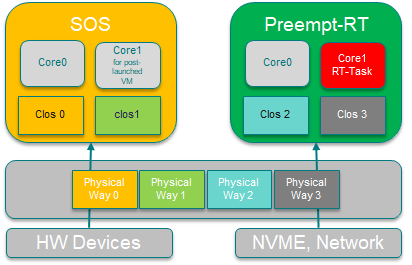
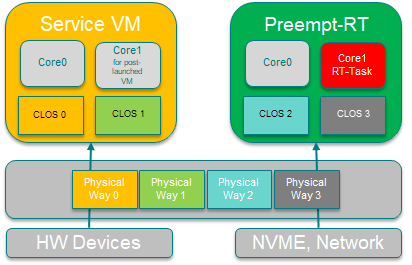
doc: terminology cleanup in RTVM tutorial
- Replace SOS or Service OS with Service VM
- Clean up some of the grammar

diff --git a/doc/tutorials/pre-launched-rt.rst b/doc/tutorials/pre-launched-rt.rst
@@ -1,13 +1,13 @@
 .. _pre_launched_rt:
 
-Pre-Launched Preempt-Rt Linux Mode in ACRN
+Pre-Launched Preempt-RT Linux Mode in ACRN
 ##########################################
 
 The Pre-Launched Preempt-RT Linux Mode of ACRN, abbreviated as
 Pre-Launched RT mode, is an ACRN configuration scenario. Pre-Launched RT
-mode allows you to boot ACRN with a preempt-rt Linux running in VM0, and
-the Service VM running in VM1. VM0 and VM1 are both pre-launched VMs,
-and their resources are partitioned from those on the physical platform.
+mode enables you to create a pre-launched real-time VM (RTVM) running
+Preempt-RT Linux (VM0) and a Service VM (VM1). Their resources are partitioned
+from those on the physical platform.
 
 .. figure:: images/pre_launched_rt.png
    :align: center
@@ -15,12 +15,12 @@ and their resources are partitioned from those on the physical platform.
 Prerequisites
 *************
 
-Because the Pre-Launched RT VM and Service VM are physically isolated
+Because the pre-launched RTVM and Service VM are physically isolated
 from each other, they must have their own devices to run a common OS,
 such as Linux. Also, the platform must support booting ACRN with
 multiple kernel images. So, your platform must have:
 
-- Two hard disk drives, one for the Pre-Launched RT and one for the Service
+- Two hard disk drives, one for the pre-launched RTVM and one for the Service
   VM
 - Two network devices
 - GRUB multiboot support
@@ -30,29 +30,29 @@ Example of Pre-Launched RT
 
 Take the Whiskey Lake WHL-IPC-I5 board (as described in :ref:`hardware`) for
 example. This platform can connect both an NVMe and a SATA drive and has
-two Ethernet ports. We will passthrough the SATA and Ethernet 03:00.0
-devices into the Pre-Launched RT VM, and give the rest of the devices to
+two Ethernet ports. We will pass through the SATA and Ethernet 03:00.0
+devices into the pre-launched RTVM, and give the rest of the devices to
 the Service VM.
 
-Install SOS With Grub on NVMe
-=============================
+Install Service VM OS With GRUB on NVMe
+=======================================
 
-As with the Hybrid and Logical Partition scenarios, the Pre-Launched RT
+As with the Hybrid and Partition scenarios, the Pre-Launched RT
 mode must boot using GRUB.  The ACRN hypervisor is loaded as a GRUB
-multiboot kernel, while the Pre-Launched RT kernel and Service VM
-kernels are loaded as multiboot modules. The ACRN hypervisor, Service
-VM, and Pre-Launched RT kernel images are all located on the NVMe drive.
+multiboot kernel, while the pre-launched RTVM kernel and Service VM
+kernel are loaded as multiboot modules. The ACRN hypervisor, Service
+VM, and pre-launched RTVM kernel images are all located on the NVMe drive.
 We recommend installing Ubuntu on the NVMe drive as the Service VM OS,
 which also has the required GRUB image to launch Pre-Launched RT mode.
-Refer to :ref:`gsg`, to
-install Ubuntu on the NVMe drive, and use grub to launch the Service VM.
+Refer to :ref:`gsg` to
+install Ubuntu on the NVMe drive, and use GRUB to launch the Service VM.
 
 Install Pre-Launched RT Filesystem on SATA and Kernel Image on NVMe
 ===================================================================
 
-Follow the :ref:`gsg` to install RT rootfs on SATA drive.
+Follow the :ref:`gsg` to install RT rootfs on the SATA drive.
 
-The Kernel should
+The kernel should
 be on the NVMe drive along with GRUB. You'll need to copy the RT kernel
 to the NVMe drive. Once you have successfully installed and booted
 Ubuntu from the NVMe drive, you'll then need to copy the RT kernel from
@@ -60,30 +60,30 @@ the SATA to the NVMe drive:
 
 .. code-block:: none
 
-   # mount /dev/nvme0n1p1 /boot
-   # mount /dev/sda1 /mnt
-   # cp /mnt/bzImage /boot/EFI/BOOT/bzImage_RT
+   sudo mount /dev/nvme0n1p1 /boot
+   sudo mount /dev/sda1 /mnt
+   sudo cp /mnt/bzImage /boot/EFI/BOOT/bzImage_RT
 
 Build ACRN With Pre-Launched RT Mode
 ====================================
 
 The ACRN VM configuration framework can easily configure resources for
-Pre-Launched VMs. On Whiskey Lake WHL-IPC-I5, to passthrough SATA and
-Ethernet 03:00.0 devices to the Pre-Launched RT VM, build ACRN with:
+pre-launched VMs. On Whiskey Lake WHL-IPC-I5, to pass through SATA and
+Ethernet 03:00.0 devices to the pre-launched RTVM, build ACRN with:
 
 .. code-block:: none
 
-   make BOARD_FILE=$PWD/misc/acrn-config/xmls/board-xmls/whl-ipc-i5.xml SCENARIO_FILE=$PWD/misc/acrn-config/xmls/config-xmls/whl-ipc-i5/hybrid_rt.xml RELEASE=0
+   make BOARD=whl-ipc-i5 SCENARIO=hybrid_rt
 
 After the build completes, update ACRN on NVMe. It is
-/boot/EFI/BOOT/acrn.bin, if /dev/nvme0n1p1 is mounted at /boot.
+``/boot/EFI/BOOT/acrn.bin``, if ``/dev/nvme0n1p1`` is mounted at ``/boot``.
 
 Add Pre-Launched RT Kernel Image to GRUB Config
 ===============================================
 
-The last step is to modify the GRUB configuration file to load the Pre-Launched
-kernel. (For more information about this, see
-the :ref:`gsg`.) The grub config file will look something
+The last step is to modify the GRUB configuration file to load the pre-launched
+RTVM kernel. (For more information about this, see
+the :ref:`gsg`.) The GRUB configuration file will look something
 like this:
 
 .. code-block:: none
@@ -96,7 +96,7 @@ like this:
        module2 /boot/ACPI_VM0.bin ACPI_VM0
    }
 
-Reboot the system, and it will boot into Pre-Launched RT Mode
+Reboot the system, and it will boot into Pre-Launched RT Mode:
 
 .. code-block:: none
 
@@ -104,10 +104,10 @@ Reboot the system, and it will boot into Pre-Launched RT Mode
    VM_UUID                          VM_ID       VM_NAME                    VM_STATE
    ================================ ===== ================================ ========
    26c5e0d88f8a47d88109f201ebd61a5e   0   ACRN PRE-LAUNCHED VM0            Running
-   dbbbd4347a574216a12c2201f1ab0240   1   ACRN SOS VM                      Running
+   dbbbd4347a574216a12c2201f1ab0240   1   ACRN Service VM                  Running
    ACRN:\>
 
-Connect console of VM0, via 'vm_console' ACRN shell command (Press
+Connect to the console of VM0, via ``vm_console`` ACRN shell command. (Press
 :kbd:`Ctrl` + :kbd:`Space` to return to the ACRN shell.)
 
 .. code-block:: none
